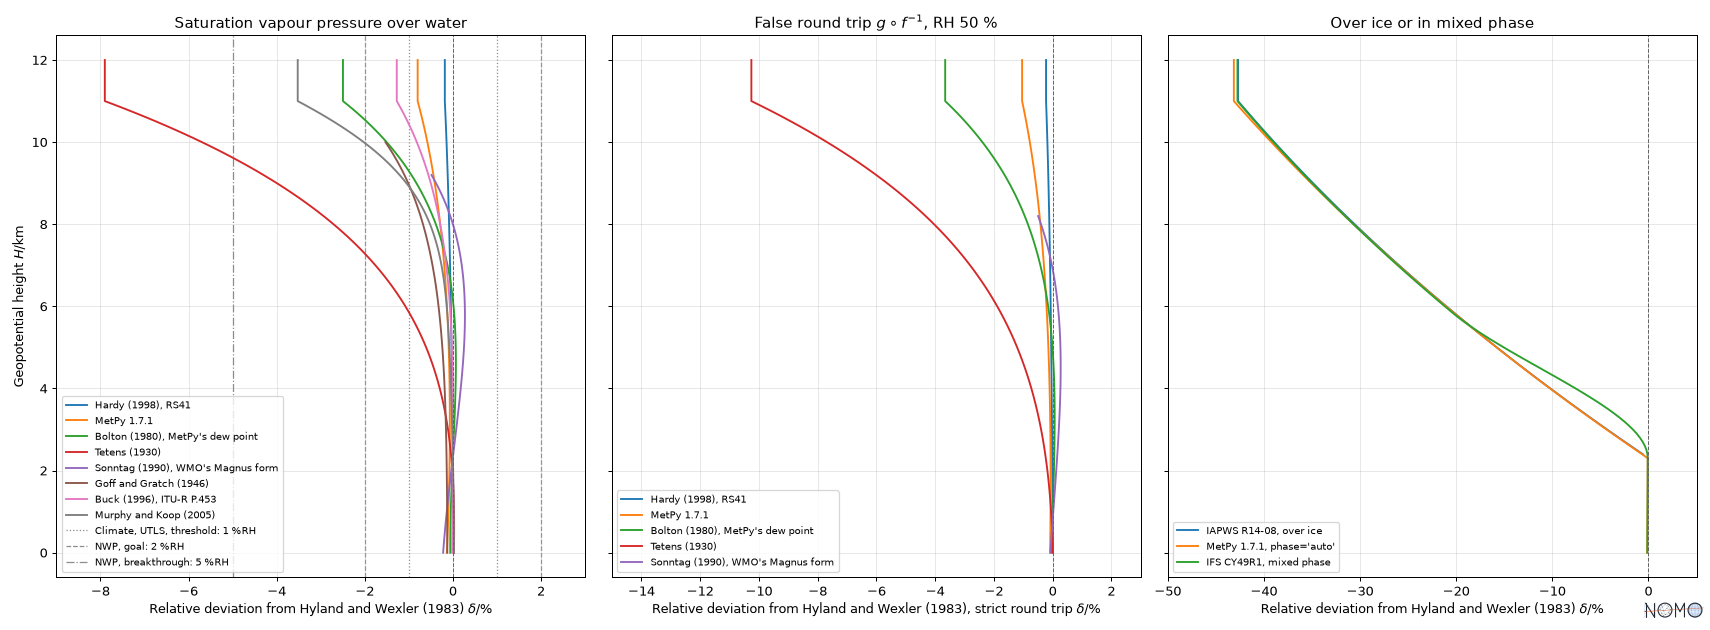
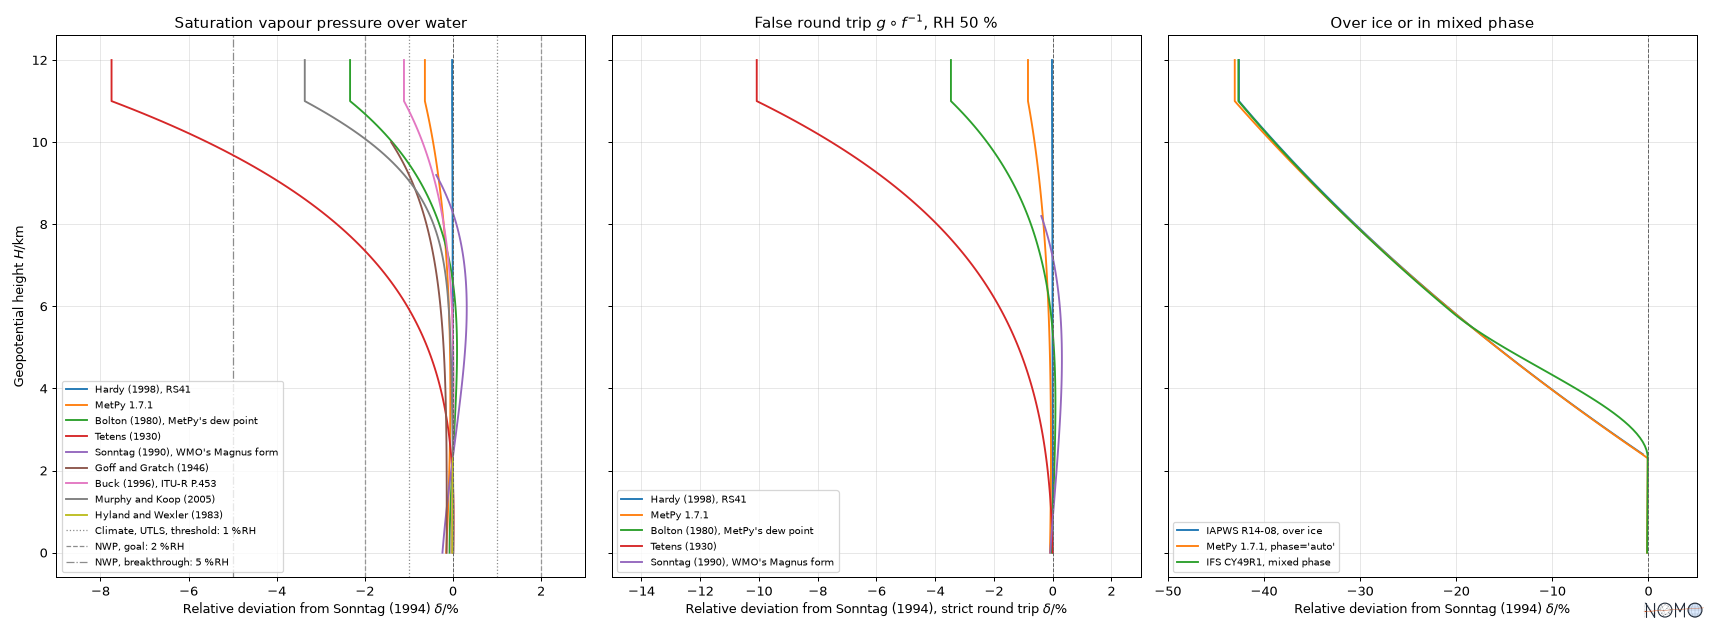
feat(catalog): ranges of Sonntag (1994) and Murphy and Koop (2005), Sonntag as reference

diff --git a/tests/test_examples.py b/tests/test_examples.py
@@ -263,49 +263,56 @@ def test_humidity_aloft_guide_gives_the_values_it_states() -> None:
         }
 
     saturation = percent(namespace["saturation"])
-    assert saturation["hardy1998_water"] == -0.18
-    assert saturation["metpy171_saturation_vapour_pressure"] == -0.80
-    assert saturation["bolton1980"] == -2.50
-    assert saturation["tetens1930"] == -7.90
-    assert saturation["buck1996"] == -1.27
-    assert saturation["murphy_koop2005_water"] == -3.52
-    # Each curve stops where its source does: below -45 and -50 degC.
-    assert all(
-        math.isnan(saturation[key]) for key in ("sonntag1990_magnus", "goff_gratch1946")
-    )
+    assert saturation["hardy1998_water"] == -0.02
+    assert saturation["metpy171_saturation_vapour_pressure"] == -0.64
+    assert saturation["bolton1980"] == -2.33
+    assert saturation["tetens1930"] == -7.75
+    assert saturation["buck1996"] == -1.11
+    assert saturation["murphy_koop2005_water"] == -3.36
+    # Each curve stops where its source does: below 0, -45 and -50 degC.
+    stopped = ("hyland_wexler1983", "sonntag1990_magnus", "goff_gratch1946")
+    assert all(math.isnan(saturation[key]) for key in stopped)
     saturated = {
         key: round(value, 3) for key, value in pascals(namespace["saturation"]).items()
     }
-    assert saturated["hyland_wexler1983"] == 3.006
+    assert saturated["sonntag1990"] == 3.001
     assert saturated["hardy1998_water"] == 3.001
     assert saturated["metpy171_saturation_vapour_pressure"] == 2.982
     assert saturated["bolton1980"] == 2.931
     assert saturated["tetens1930"] == 2.769
     assert saturated["buck1996"] == 2.968
     assert saturated["murphy_koop2005_water"] == 2.900
+    # Hyland and Wexler, extrapolated below 0 degC, gives 0.17 % more.
+    f, Q_ = namespace["f"], namespace["Q_"]
+    cold = Q_(-56.5, "degC").to("K")
+    extrapolated = f["hyland_wexler1983"].evaluate(T=cold, outside="ignore")
+    sonntag = f["sonntag1990"].evaluate(T=cold)
+    assert round(100 * float(extrapolated / sonntag - 1), 2) == 0.17
 
     # The round trip: e = 0.50 f(T), Td = f^-1(e), then g(Td) and g(Td)/g(T).
-    start = 0.5 * pascals(namespace["saturation"])["hyland_wexler1983"]
-    dew_point = namespace["inverse"].evaluate(e=namespace["Q_"](start, "Pa"))
+    start = 0.5 * pascals(namespace["saturation"])["sonntag1990"]
+    dew_point = namespace["inverse"].evaluate(e=Q_(start, "Pa"))
     assert round(dew_point.to("degC").magnitude, 1) == -62.1
     back = pascals(namespace["decoded"])
-    assert abs(back["hyland_wexler1983"] / start - 1) < 1e-9  # the strict round trip
+    assert abs(back["sonntag1990"] / start - 1) < 1e-9  # the strict round trip
     taken = {key: round(value, 3) for key, value in back.items()}
-    assert taken["hyland_wexler1983"] == 1.503
+    assert taken["sonntag1990"] == 1.501
     assert taken["hardy1998_water"] == 1.500
     assert taken["metpy171_saturation_vapour_pressure"] == 1.488
-    assert taken["bolton1980"] == 1.448
+    assert taken["bolton1980"] == 1.449
     assert taken["tetens1930"] == 1.349
     assert math.isnan(taken["sonntag1990_magnus"])
     decoded = percent(namespace["decoded"])
-    assert decoded["hardy1998_water"] == -0.22
-    assert decoded["metpy171_saturation_vapour_pressure"] == -1.04
-    assert decoded["bolton1980"] == -3.66
-    assert decoded["tetens1930"] == -10.26
-    # The round trip widens the gap of the saturation 1.2 to 1.5 times.
+    assert decoded["hardy1998_water"] == -0.02
+    assert decoded["metpy171_saturation_vapour_pressure"] == -0.84
+    assert decoded["bolton1980"] == -3.46
+    assert decoded["tetens1930"] == -10.07
+    # The round trip widens the gap of the saturation 1.3 to 1.5 times.
     names = ("hardy1998_water", "metpy171_saturation_vapour_pressure", "bolton1980")
-    widening = [decoded[key] / saturation[key] for key in (*names, "tetens1930")]
-    assert (round(min(widening), 1), round(max(widening), 1)) == (1.2, 1.5)
+    gap_back = at_11(namespace["decoded"].relative_deviations)
+    gap_air = at_11(namespace["saturation"].relative_deviations)
+    widening = [gap_back[key] / gap_air[key] for key in (*names, "tetens1930")]
+    assert (round(min(widening), 1), round(max(widening), 1)) == (1.3, 1.5)
 
     def humidity_back(table: Any, humidity: float) -> dict[str, float]:
         """g(Td)/g(T) in %, from the deviations of g(Td) and of g(T)."""
@@ -318,11 +325,11 @@ def test_humidity_aloft_guide_gives_the_values_it_states() -> None:
         }
 
     humidities = humidity_back(namespace["decoded"], 0.5)
-    assert humidities["hyland_wexler1983"] == 50.00
-    assert humidities["hardy1998_water"] == 49.98
-    assert humidities["metpy171_saturation_vapour_pressure"] == 49.88
-    assert humidities["bolton1980"] == 49.40
-    assert humidities["tetens1930"] == 48.72
+    assert humidities["sonntag1990"] == 50.00
+    assert humidities["hardy1998_water"] == 50.00
+    assert humidities["metpy171_saturation_vapour_pressure"] == 49.90
+    assert humidities["bolton1980"] == 49.42
+    assert humidities["tetens1930"] == 48.74
     # With Tetens' form, wider on e' in drier air, about the same in %RH.
     tetens = namespace["along"]("tetens1930", "Tetens (1930)", namespace["dew_point"])
     reference = namespace["back"]
@@ -334,14 +341,14 @@ def test_humidity_aloft_guide_gives_the_values_it_states() -> None:
         }
         return namespace["compare"]([reference, tetens], reference, inputs)
 
-    assert percent(tetens_at(0.2))["tetens1930"] == -13.88
-    assert percent(tetens_at(0.05))["tetens1930"] == -20.41
+    assert percent(tetens_at(0.2))["tetens1930"] == -13.66
+    assert percent(tetens_at(0.05))["tetens1930"] == -20.11
     gaps = [
         round(humidity_back(tetens_at(h), h)["tetens1930"] - 100 * h, 1)
         for h in (0.2, 0.3, 0.4, 0.6)
     ]
     assert (min(gaps), max(gaps)) == (-1.4, -1.1)
     junctions = percent(namespace["junctions"])
-    assert junctions["iapws_r14_08_sublimation"] == -42.69
-    assert junctions["metpy171_saturation_vapour_pressure_auto"] == -43.13
-    assert junctions["ecmwf_ifs_saturation_mixed_phase"] == -42.75
+    assert junctions["iapws_r14_08_sublimation"] == -42.59
+    assert junctions["metpy171_saturation_vapour_pressure_auto"] == -43.03
+    assert junctions["ecmwf_ifs_saturation_mixed_phase"] == -42.66

diff --git a/docs/examples/humidity_aloft.py b/docs/examples/humidity_aloft.py
@@ -40,7 +40,7 @@ def main(output: str) -> None:
         point = formulation.inputs[0].identifier
         return compose(formulation, {point: temperature}, label=label)
 
-    wmo = "hyland_wexler1983"  # named by WMO for radiosondes (WMO-No. 8, 12.4.1)
+    wmo = "sonntag1990"  # Sonntag (1994), named for radiosondes (WMO-No. 8, 12.4.1)
     users = {
         "hardy1998_water": "Hardy (1998), RS41",
         "metpy171_saturation_vapour_pressure": "MetPy 1.7.1",
@@ -50,9 +50,10 @@ def main(output: str) -> None:
         "goff_gratch1946": "Goff and Gratch (1946)",
         "buck1996": "Buck (1996), ITU-R P.453",
         "murphy_koop2005_water": "Murphy and Koop (2005)",
+        "hyland_wexler1983": "Hyland and Wexler (1983)",
     }
     grid = {"GeopotentialHeight": Q_(np.linspace(0, 12, 121), "km")}
-    reference = along(wmo, "Hyland and Wexler (1983)")
+    reference = along(wmo, "Sonntag (1994)")
     saturation = compare(
         [reference, *(along(k, label) for k, label in users.items())], reference, grid
     )
@@ -62,13 +63,13 @@ def main(output: str) -> None:
         f[wmo],
         "T",
         output=Variable("T_d", "DewPointTemperature", "K", "Dew point temperature"),
-        input=Variable("e", "VapourPressure", "PA", "Vapour pressure"),
+        input=Variable("e", "VapourPressure", "HectoPA", "Vapour pressure"),
     )
     vapour = compose(f["vapour_pressure_from_relative_humidity"], {"e_s": reference})
     dew_point = compose(inverse, {"e": vapour})
     names = ("hardy1998_water", "metpy171_saturation_vapour_pressure", "bolton1980")
     decoders = {k: users[k] for k in (*names, "tetens1930", "sonntag1990_magnus")}
-    back = along(wmo, "Hyland and Wexler (1983), strict round trip", dew_point)
+    back = along(wmo, "Sonntag (1994), strict round trip", dew_point)
     decoded = compare(
         [back, *(along(k, label, dew_point) for k, label in decoders.items())],
         back,

diff --git a/tests/test_radiosonde_humidity.py b/tests/test_radiosonde_humidity.py
@@ -99,5 +99,11 @@ def test_the_formulations_wmo_names_for_radiosondes_are_found_by_search() -> Non
     # The rule of the dew point in BUFR, and the regulations it refers to.
     assert "references.wmo306_vol1_2_2025" in CATALOG.search("BUFR").refs
     assert "references.wmo49_vol1_2025" in CATALOG.search("Technical Regulations").refs
+    # Of the three, only Sonntag states a range below 0 degC over water.
     (domain,) = (d for c in F["hyland_wexler1983"].citations for d in c.domains)
-    assert domain.bounds["T"] == (173.15, 473.15)
+    assert (domain.bounds["T"], domain.reference) == (
+        (273.15, 473.15),
+        "murphy_koop2005",
+    )
+    (domain,) = (d for c in F["sonntag1990"].citations for d in c.domains)
+    assert (domain.bounds["T"], domain.reference) == ((173.15, 373.15), "sonntag1994")

diff --git a/tests/test_inversion.py b/tests/test_inversion.py
@@ -442,7 +442,12 @@ def test_numerical_inversion_needs_a_search_interval() -> None:
     output = Variable("T_d", "ThermodynamicTemperature", "K", "x")
     vapour = Variable("e", "VapourPressure", "HectoPA", "e")
     with pytest.raises(InversionError, match="give a search interval"):
-        invert(FORMULATIONS["sonntag1990"], "T", output=output, input=vapour)
+        invert(
+            FORMULATIONS["metpy171_saturation_vapour_pressure"],
+            "T",
+            output=output,
+            input=vapour,
+        )
 
 
 def test_symbolic_inversion_into_kelvin() -> None:

diff --git a/tests/test_citations.py b/tests/test_citations.py
@@ -232,7 +232,7 @@ def test_catalog_citations_follow_their_sources() -> None:
     assert "gibbins1990" in FORMULATIONS["goff_gratch1946"].references
     sonntag = FORMULATIONS["sonntag1990"]
     stating = [c.reference for c in sonntag.citations if "T" in c.scales]
-    assert stating == ["sonntag1990", "alduchov_eskridge1996"]
+    assert stating == ["sonntag1990", "alduchov_eskridge1996", "sonntag1994"]
     r14 = FORMULATIONS["iapws_r14_08_sublimation"]
     assert r14.citations[0].accuracy is not None
 

diff --git a/CHANGELOG.md b/CHANGELOG.md
@@ -45,9 +45,11 @@ and this project adheres to
   derives it from the function of the Technical Regulations or a near
   equivalent, and the Technical Regulations (WMO-No. 49, Volume I), which
   refer formulas to the guides. The formulations WMO-No. 8 (12.4.1) names
-  for radiosondes say so in their notes, found by `search("12.4.1")`;
-  Hyland and Wexler (1983) takes the range of its title, 173.15 to
-  473.15 K.
+  for radiosondes say so in their notes, found by `search("12.4.1")`.
+  Sonntag (1994) and Murphy and Koop (2005), now read, give the ranges
+  the authors state: -100 to 100 °C over water for Sonntag, above 0 °C
+  over water for Hyland and Wexler (1983), and those of Murphy and Koop;
+  these formulations invert without a search interval.
 - The lifting condensation level of the ECMWF IFS (6.74): its temperature
   by the empirical formula of Davies-Jones (1983), and its pressure from
   the potential temperature of the departure level, whose reference
@@ -88,13 +90,13 @@ and this project adheres to
 - `docs/humidity-aloft.md`: why the lineage of data should cite the
   formulations that made them; the formulas of WMO and its rule for the
   dew point in BUFR messages; the formulations a user may take against
-  Hyland and Wexler (1983), which WMO names for radiosondes, along the
+  Sonntag (1994), which WMO names for radiosondes, along the
   reference atmosphere, the false round trip through the dew point,
-  which widens the gap aloft (-10.3 % on the vapour pressure with Tetens
+  which widens the gap aloft (-10.1 % on the vapour pressure with Tetens
   at 11 km for a relative humidity of 50 %, -1.3 %RH on the relative
   humidity recomputed from it), the saturation over ice or in mixed phase
   against that over water, which the relative humidity of a radiosonde,
-  of MetPy or of the IFS takes below 0 °C (-42.7 % at 11 km), and WMO's
+  of MetPy or of the IFS takes below 0 °C (-42.6 % at 11 km), and WMO's
   OSCAR requirements in %RH; with its figure and script
   (`docs/examples/humidity_aloft.py`).
 - The saturation vapour pressure formulations of radiosonde humidity
@@ -194,6 +196,9 @@ and this project adheres to
 
 ### Changed
 
+- The formulation over ice of Sonntag takes the constant of the original,
+  24.7219, where Vömel prints 24.721994 (0.0094 % more); the note keeps
+  both.
 - MetPy's saturation vapour pressure over water takes its reference point
   from two named constants, as MetPy does (`sat_pressure_0c`, 6.112 hPa,
   and `T0`, 273.16 K), shared with its form over ice.
